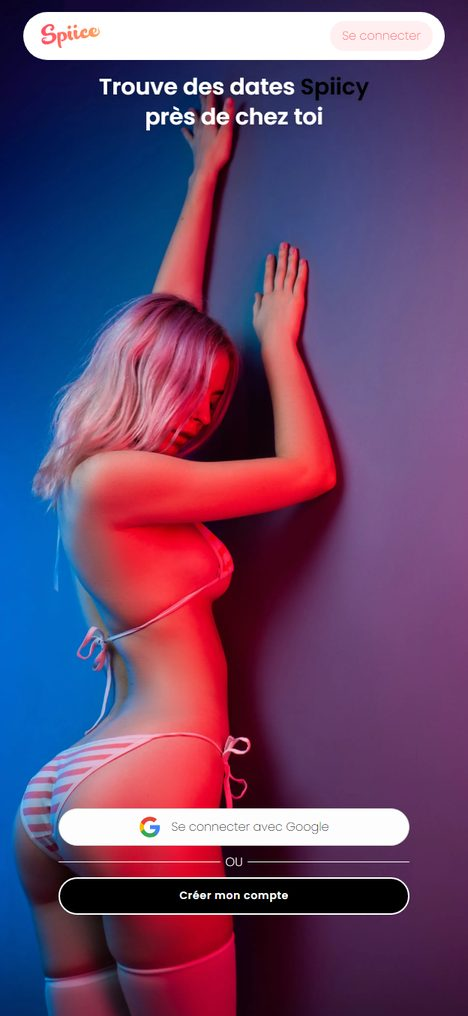
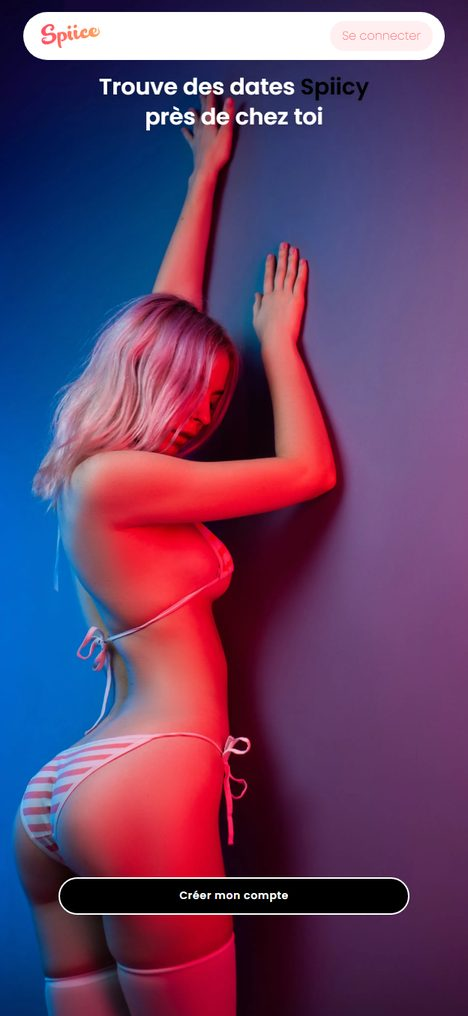
Experiences : visuels de l'AB test LP sur Sexy 1
Les deux pages du comparateur top5-site-rencontre.com : tpl-b en temoin, e0a en
variante. Les trois tests en cours ont desormais leurs captures.

LARGEUR VERIFIEE, PAS SUPPOSEE
La mise en page a l'air a l'etroit a 624 px, le texte se cassant tous les deux
mots dans les cartes du classement. J'ai teste 390 et 430 : le contenu debordait
franchement du cadre. Les 624 px sont donc justes — la page est simplement dense
par construction. Un « viewport » par entree est neanmoins ajoute au manifeste
pour les pages qui demanderaient autre chose.

UNE MESURE ABANDONNEE PLUTOT QUE FAUSSE
Contrairement aux pages Spiice, celle-ci continue sous le pli : la liste est
coupee au 3e resultat. J'ai voulu detecter le cas automatiquement en capturant
dans une fenetre trois fois plus haute et en cherchant la fin du contenu par
analyse de pixels. Resultat : les SIX pages ressortaient tronquees avec une
hauteur exactement egale a celle de la sonde. Le navigateur peint le fond du
corps sur toute la fenetre, donc l'image n'est jamais uniforme en bas et le pixel
ne distingue pas le contenu du remplissage. La vraie reponse est dans le DOM
(scrollHeight), hors de portee des options en ligne de commande.

Le code de detection est donc retire — avec la note expliquant pourquoi, pour
qu'on ne le reecrive pas — et le drapeau « partial » est pose a la main sur les
deux pages dont j'ai constate la troncature. La legende affiche « haut de page
[…]

Changed region(s): [[0.1197, 0.7933, 0.8974, 0.8543]]

diff --git a/assets/app.js b/assets/app.js
@@ -8052,6 +8052,16 @@ function renderLabShot(shot) {
     when.textContent = ` · capture du ${fmtDateShort(shot.captured_at)}`;
     cap.appendChild(when);
   }
+  // Une capture partielle qui ne se signale pas laisse croire que la page
+  // s'arrête là. Le drapeau est posé à la main dans le manifeste : la détection
+  // automatique s'est révélée fausse (voir scripts/capture_lp.py).
+  if (shot.partial) {
+    const cut = document.createElement('span');
+    cut.className = 'lab-shot__cut';
+    cut.textContent = ' · haut de page seulement';
+    cut.title = shot.partial_note || 'La page continue sous le cadre.';
+    cap.appendChild(cut);
+  }
   fig.appendChild(cap);
   return fig;
 }

diff --git a/assets/styles.css b/assets/styles.css
@@ -1157,6 +1157,7 @@ table.data tfoot td {
   overflow-wrap: anywhere;
 }
 .lab-shot figcaption a { color: var(--text-secondary); }
+.lab-shot__cut { color: var(--series-4); }
 
 @media (prefers-reduced-motion: reduce) {
   .lab-shot img { transition: none; }

diff --git a/scripts/capture_lp.py b/scripts/capture_lp.py
@@ -64,6 +64,27 @@ def find_browser() -> str:
     sys.exit("Aucun navigateur basé sur Chromium trouvé (Edge, Chrome ou Chromium).")
 
 
+"""
+DÉTECTION AUTOMATIQUE DES PAGES TRONQUÉES : ESSAYÉE, ABANDONNÉE
+
+Une capture au format d'un écran ne montre qu'un écran. Savoir si la page
+continue en dessous serait utile — une capture partielle laisse croire que la
+page s'arrête là.
+
+Tentative : capturer dans une fenêtre trois fois plus haute et chercher, en
+remontant depuis le bas, la première ligne de pixels non uniforme. Résultat : les
+six pages ressortaient « tronquées » avec une hauteur exactement égale à celle de
+la sonde. Le navigateur peint le fond du corps sur toute la fenêtre, donc l'image
+n'est jamais uniforme en bas et l'analyse de pixels ne peut pas distinguer le
+contenu du remplissage. La vraie réponse est dans le DOM (scrollHeight), hors de
+portée des options en ligne de commande.
+
+Le drapeau « partial » du manifeste est donc posé À LA MAIN, quand on a
+effectivement constaté que la page continue. Une mesure qu'on ne sait pas faire
+correctement vaut mieux absente qu'automatisée de travers.
+"""
+
+
 def parse_args() -> argparse.Namespace:
     p = argparse.ArgumentParser(description="Captures des pages de destination.")
     p.add_argument("--width", type=int, default=624,
@@ -118,20 +139,37 @@ def main() -> None:
         out = PROJECT_DIR / rel
         out.parent.mkdir(parents=True, exist_ok=True)
 
-        with tempfile.TemporaryDirectory() as tmp:
-            shot = Path(tmp) / "shot.png"
+        # Une page peut imposer sa propre fenêtre : les pages Spiice ont besoin de
+        # 624 px de large, un comparateur pourrait en demander plus.
+        vw, vh = args.width, args.height
+        if page.get("viewport"):
+            try:
+                a, b = str(page["viewport"]).lower().split("x")
+                vw, vh = int(a), int(b)
+            except ValueError:
+                print(f"  viewport illisible pour {url}, valeur par défaut utilisée")
+
+        def shoot(dest: Path, w: int, h: int, profile: Path) -> bool:
             cmd = [
                 browser, "--headless=new", "--disable-gpu", "--no-first-run",
                 "--no-default-browser-check", "--hide-scrollbars",
-                f"--window-size={args.width},{args.height}",
+                f"--window-size={w},{h}",
                 f"--virtual-time-budget={args.wait}",
-                f"--user-data-dir={Path(tmp) / 'profile'}",
-                f"--screenshot={shot}", url,
+                f"--user-data-dir={profile}",
+                f"--screenshot={dest}", url,
             ]
-            res = subprocess.run(cmd, capture_output=True, text=True)
-            if not shot.exists():
-                print(f"  ÉCHEC {url}\n    {res.stderr.strip()[:300]}")
+            r = subprocess.run(cmd, capture_output=True, text=True)
+            if not dest.exists():
+                print(f"  ÉCHEC {url}\n    {r.stderr.strip()[:300]}")
+                return False
+            return True
+
+        with tempfile.TemporaryDirectory() as tmp:
+            shot = Path(tmp) / "shot.png"
+            if not shoot(shot, vw, vh, Path(tmp) / "profile"):
                 continue
+            # « partial » n'est pas déduit ici : voir la note en tête de fichier.
+            page.pop("full_height", None)
 
             if pillow:
                 from PIL import Image
